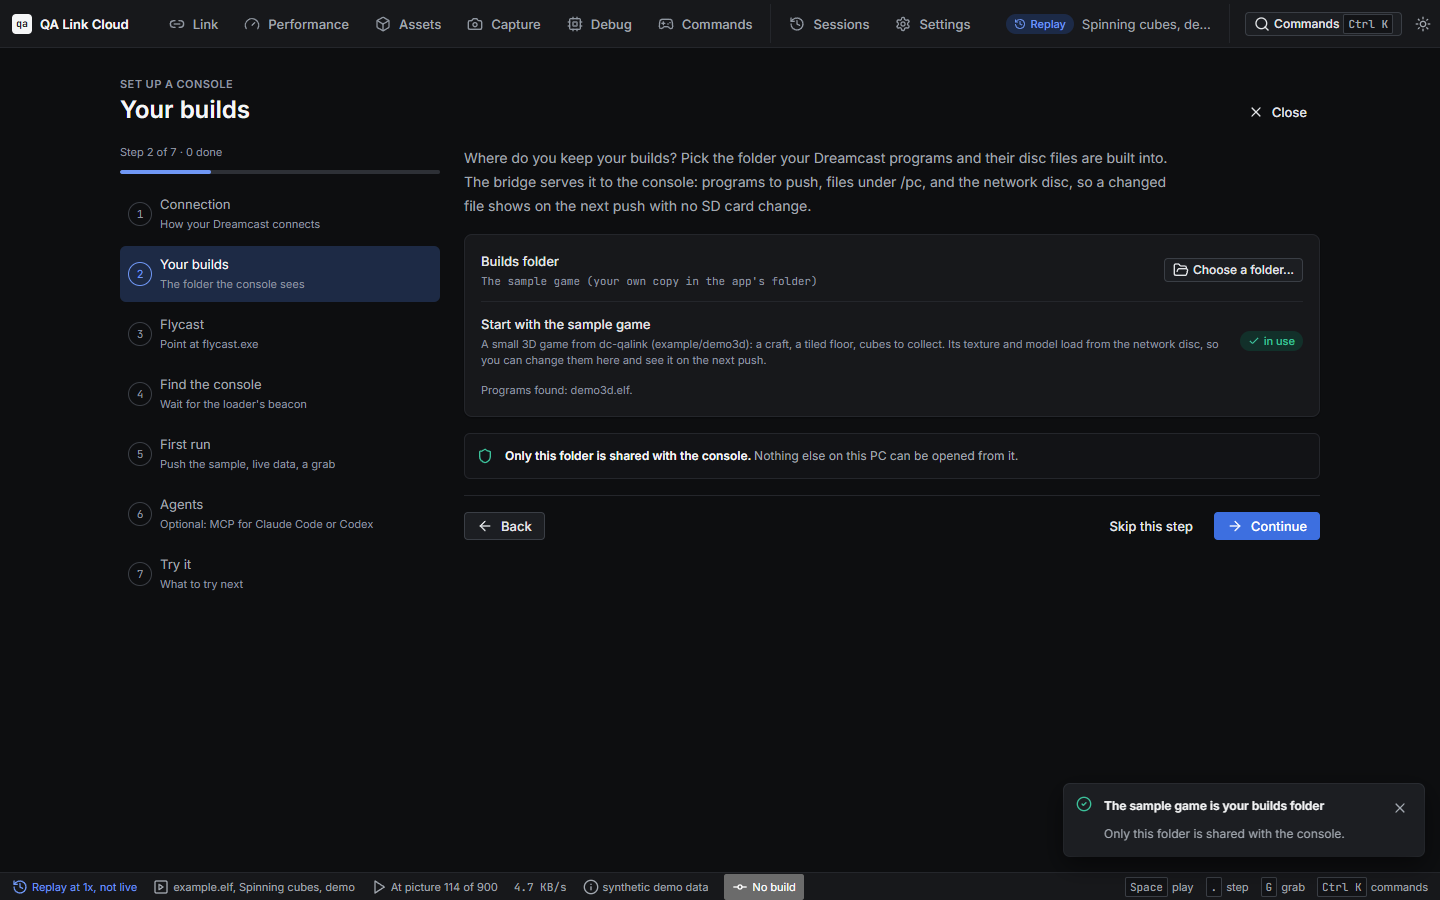
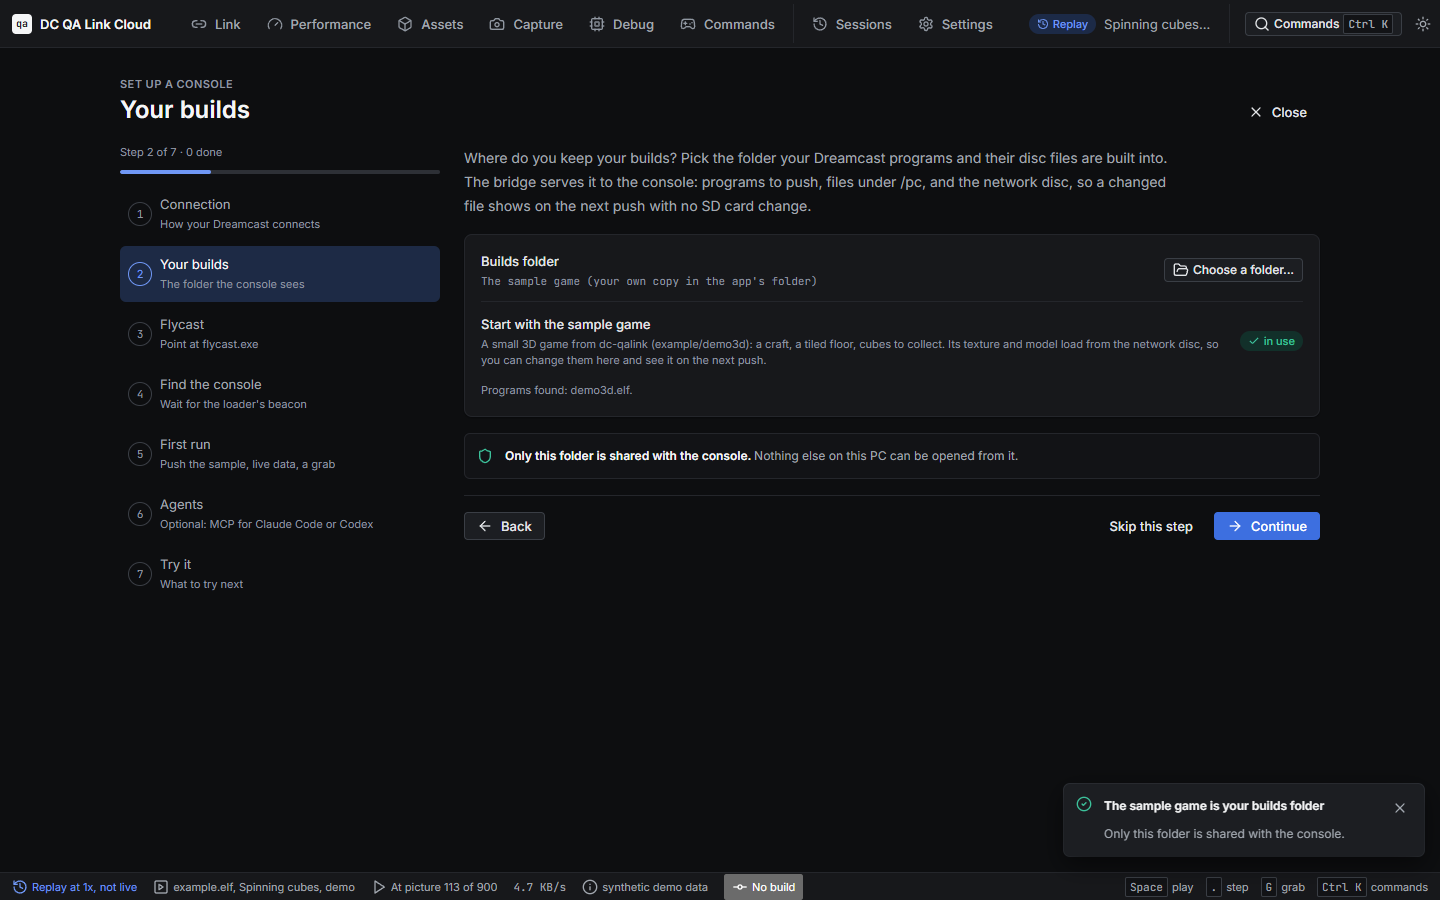
Rename the desktop app to DC QA Link Cloud
Every name a person sees now reads DC QA Link Cloud: the window title, the
executable and zip, the shell and phone brand, the page titles, the setup and
settings texts, the About card, README and docs. The repository name, package
name and internal ids are unchanged.

- About gains the line "Independent tool; not affiliated with Sega."
- The data folder follows the new product name; an existing "QA Link Cloud"
  folder is moved to it once, so settings carry over (kept in place if the
  move fails).
- onboarding-flow waits for the first setup page instead of a fixed sleep.
- README onboarding screenshots retaken with the new name (Flycast).

diff --git a/src/pages/settings.ts b/src/pages/settings.ts
@@ -14,11 +14,11 @@ import type { Page } from './page';
 export type RemoteState = 'off' | 'connecting' | 'on' | 'refused';
 export const remote = { state: (new URLSearchParams(location.search).get('remote') as RemoteState) || 'off', reason: '', v: 0 };
 if (!['off', 'connecting', 'on', 'refused'].includes(remote.state)) remote.state = 'off';
-if (remote.state === 'refused') remote.reason = 'No QA Link Cloud account is set up on this PC yet (milestone L3b).';
+if (remote.state === 'refused') remote.reason = 'No DC QA Link Cloud account is set up on this PC yet (milestone L3b).';
 export function setRemote(on: boolean): void {
   if (!on) { remote.state = 'off'; remote.reason = ''; remote.v++; return; }
   remote.state = 'connecting'; remote.reason = ''; remote.v++;
-  setTimeout(() => { if (remote.state !== 'connecting') return; remote.state = 'refused'; remote.reason = 'No QA Link Cloud account is set up on this PC yet (milestone L3b). Nothing left this PC.'; remote.v++; }, 1600);
+  setTimeout(() => { if (remote.state !== 'connecting') return; remote.state = 'refused'; remote.reason = 'No DC QA Link Cloud account is set up on this PC yet (milestone L3b). Nothing left this PC.'; remote.v++; }, 1600);
 }
 
 export function mcpSnippets(info: AppInfo | null): { claude: string; codex: string } {
@@ -63,7 +63,7 @@ export class SettingsPage implements Page {
   frame(): void {
     void this.loadDevices();
     const k = `${this.v}|${remote.v}|${this.app.themeV}|${this.app.source.state}`; if (k === this.built) return; this.built = k;
-    const head = h('div', { class: 'page-head' }, h('div', null, h('div', { class: 'eyebrow' }, 'QA Link Cloud'), h('h1', null, 'Settings'), h('p', null, desktop() ? 'Saved in the app\'s own folder on this PC.' : 'Saved in this browser. The desktop app adds programs, files and this PC\'s network.')),
+    const head = h('div', { class: 'page-head' }, h('div', null, h('div', { class: 'eyebrow' }, 'DC QA Link Cloud'), h('h1', null, 'Settings'), h('p', null, desktop() ? 'Saved in the app\'s own folder on this PC.' : 'Saved in this browser. The desktop app adds programs, files and this PC\'s network.')),
       h('div', { class: 'actions' }, btn('Set up a console', () => this.app.cmds.run('setup.open'), { icon: 'sparkles', primary: true })));
     const col = (...c: HTMLElement[]) => h('div', { class: 'col' }, ...c);
     this.el.replaceChildren(head, h('div', { class: 'grid-2' }, col(this.buildsCard(), this.devicesCard(), this.programsCard(), this.networkCard()), col(this.remoteCard(), this.appearanceCard(), this.aboutCard())), this.agentsCard());
@@ -105,15 +105,15 @@ export class SettingsPage implements Page {
     const sw = switchEl(s === 'on' || s === 'connecting', 'Remote link', (v) => setRemote(v), { busy: s === 'connecting', refused: s === 'refused' });
     const say: Record<RemoteState, string> = {
       off: 'Nothing leaves this PC. The console, the bridge and this app work on the local network only.',
-      connecting: 'Opening one outgoing connection to QA Link Cloud. No port is opened on this network.',
-      on: 'Linked to QA Link Cloud through one outgoing connection. A browser elsewhere and cloud agents with a token can reach this console. Every command is logged with who sent it.',
-      refused: remote.reason || 'QA Link Cloud refused the connection.',
+      connecting: 'Opening one outgoing connection to DC QA Link Cloud. No port is opened on this network.',
+      on: 'Linked to DC QA Link Cloud through one outgoing connection. A browser elsewhere and cloud agents with a token can reach this console. Every command is logged with who sent it.',
+      refused: remote.reason || 'DC QA Link Cloud refused the connection.',
     };
     const states = h('div', { class: 'remote-states' }, ...(['off', 'connecting', 'on', 'refused'] as RemoteState[]).map((x) => h('div', { class: `remote-state${x === s ? ' is-current' : ''}`, html: `<span class="pill${x === 'on' ? ' ok' : x === 'connecting' ? ' warn' : x === 'refused' ? ' err' : ''}">${x === 'off' ? 'Off' : x === 'on' ? 'On' : x === 'connecting' ? 'Connecting' : 'Refused'}</span>` },
       x === 'off' ? 'Local only' : x === 'connecting' ? 'Dialling out' : x === 'on' ? 'Reachable with sign-in' : 'Not set up, or signed out')));
     return h('section', { class: 'card' }, h('div', { class: 'card-head', html: iconSvg('globe') }, h('h2', null, 'Remote link'), h('span', { class: 'meta', html: pill })),
       h('div', { class: 'card-body remote' },
-        h('div', { class: 'remote-head' }, sw, h('div', null, h('div', { class: 't' }, 'Reach this console from elsewhere'), h('div', { class: 'faint', style: 'font-size:var(--fs-xs)' }, 'QA Link Cloud on Cloudflare: sign-in on every page and call'))),
+        h('div', { class: 'remote-head' }, sw, h('div', null, h('div', { class: 't' }, 'Reach this console from elsewhere'), h('div', { class: 'faint', style: 'font-size:var(--fs-xs)' }, 'DC QA Link Cloud on Cloudflare: sign-in on every page and call'))),
         h('div', { class: `callout${s === 'refused' ? ' err' : s === 'on' ? ' ok' : s === 'connecting' ? ' warn' : ''}`, html: iconSvg(s === 'refused' ? 'circle-x' : s === 'on' ? 'circle-check' : 'info') }, h('p', null, say[s], s === 'on' && new URLSearchParams(location.search).get('remote') === 'on' ? h('b', null, ' Design preview: nothing is connected.') : null)),
         states,
         h('dl', { class: 'kv' }, h('dt', null, 'Address'), h('dd', null, 'not set up (milestone L3b)'), h('dt', null, 'When on, leaves this PC'), h('dd', null, 'live data, grabs and sessions you upload'), h('dt', null, 'Never leaves'), h('dd', null, 'files on disk you did not send'))));
@@ -185,8 +185,9 @@ export class SettingsPage implements Page {
     const i = this.info;
     return h('section', { class: 'card' }, h('div', { class: 'card-head', html: iconSvg('info') }, h('h2', null, 'About')),
       h('div', { class: 'card-body' }, h('dl', { class: 'kv' },
-        h('dt', null, 'App'), h('dd', null, i ? `QA Link Cloud ${i.version}, desktop${i.packaged ? '' : ' (from source)'}` : 'QA Link Cloud, web page'),
+        h('dt', null, 'App'), h('dd', null, i ? `DC QA Link Cloud ${i.version}, desktop${i.packaged ? '' : ' (from source)'}` : 'DC QA Link Cloud, web page'),
         h('dt', null, 'Built on'), h('dd', null, 'dc-qalink 0.2 (in progress)'),
+        h('dt', null, 'Notice'), h('dd', null, 'Independent tool; not affiliated with Sega.'),
         h('dt', null, 'Bridge API'), h('dd', null, BRIDGE_API_VERSION),
         h('dt', null, 'Session format'), h('dd', null, String(SESSION_FORMAT_VERSION)),
         h('dt', null, 'MCP tool list'), h('dd', null, MCP_TOOLS_VERSION),

diff --git a/src/pages/setup.ts b/src/pages/setup.ts
@@ -241,7 +241,7 @@ export class SetupPage implements Page {
           const c = h('button', { class: 'choice', 'aria-pressed': String(on), 'data-kind': k, html: iconSvg(ic, 20) }, h('span', { class: 't' }, t), h('span', { class: 'box', html: on ? iconSvg('check') : '' }), h('span', { class: 'd' }, d));
           c.addEventListener('click', () => this.setKind(k)); return c;
         };
-        return [lead('QA Link Cloud links this PC to a Dreamcast while it runs: push a build, watch its timings live, grab its screen, warp, pause and step. It works offline, on this PC\'s network.'),
+        return [lead('DC QA Link Cloud links this PC to a Dreamcast while it runs: push a build, watch its timings live, grab its screen, warp, pause and step. It works offline, on this PC\'s network.'),
           h('div', { class: 'section-title' }, 'How is your Dreamcast connected?'),
           h('div', { class: 'choice-grid three' },
             choice('bba', 'cable', 'Broadband adapter', 'The fastest: live data every picture, and builds can read their disc from this PC.'),
@@ -272,7 +272,7 @@ export class SetupPage implements Page {
           seg,
           this.s.transport === 'modem' ? call('info', '', h('b', null, 'No network disc. '), MODEM_NO_DISC) : null,
           q ? (this.nets.length ? h('div', { class: 'card' }, h('div', { class: 'card-body flush' }, t)) : h('div', { class: 'faint' }, 'Reading this PC\'s network...')) : h('div', { class: 'callout', html: iconSvg('app-window') }, h('p', null, 'The desktop app lists this PC\'s network and picks the one the console can reach. On the web page, the bridge picks it.')),
-          call('shield', 'warn', h('b', null, 'One Windows question may appear. '), 'When the bridge first listens for the console, Windows can ask whether QA Link Cloud may use networks. Tick ', h('b', null, 'Private networks'), ', leave Public unticked, and choose ', h('b', null, 'Allow'), '. The app changes no firewall settings itself.')];
+          call('shield', 'warn', h('b', null, 'One Windows question may appear. '), 'When the bridge first listens for the console, Windows can ask whether DC QA Link Cloud may use networks. Tick ', h('b', null, 'Private networks'), ', leave Public unticked, and choose ', h('b', null, 'Allow'), '. The app changes no firewall settings itself.')];
       }
       case 'loader': return [
         lead('The loader is a small program the Dreamcast boots from the SD card once. It waits for builds from this PC, runs them, and comes back when they end, so you never swap cards again.'),
@@ -329,7 +329,7 @@ export class SetupPage implements Page {
           h('div', { class: 'card' }, h('div', { class: 'card-body' }, h('div', { class: 'set-row' }, h('div', null, h('div', { class: 'l' }, 'Local MCP'), h('div', { class: 'd' }, 'Tools at the "control" level: they can read and steer, not push code. Raise it in the command line on purpose.')),
             h('div', { class: 'ctl' }, q ? switchEl(this.mcpOn, 'Local MCP', async (v) => { await q.setSetting('mcpLocal', v); this.mcpOn = v; this.bump(); }) : deskOnly())))),
           snippet(A, 'Claude Code: run once in a terminal', sn.claude), snippet(A, 'Codex: add to ~/.codex/config.toml', sn.codex),
-          h('div', { class: 'faint', style: 'font-size:var(--fs-xs)' }, 'The remote link stays off: when on, it lets a browser elsewhere and cloud agents reach this console through QA Link Cloud. Settings has the switch.')];
+          h('div', { class: 'faint', style: 'font-size:var(--fs-xs)' }, 'The remote link stays off: when on, it lets a browser elsewhere and cloud agents reach this console through DC QA Link Cloud. Settings has the switch.')];
       }
       case 'done': {
         const items: [string, string][] = [

diff --git a/src/ui/phone.ts b/src/ui/phone.ts
@@ -25,7 +25,7 @@ export class Phone {
     const menu = h('button', { class: 'icon-btn', 'aria-label': 'Commands', title: 'Commands', html: iconSvg('menu') });
     menu.addEventListener('click', () => app.palette());
     this.el = h('div', { class: 'mon' },
-      h('header', { class: 'mon-top' }, h('span', { class: 'brand' }, h('span', { class: 'brand-mark' }, 'qa'), 'QA Link Cloud'), h('span', { class: 'grow' }), this.pill, menu),
+      h('header', { class: 'mon-top' }, h('span', { class: 'brand' }, h('span', { class: 'brand-mark' }, 'qa'), 'DC QA Link Cloud'), h('span', { class: 'grow' }), this.pill, menu),
       h('div', { class: 'mon-body' },
         h('section', { class: 'card' }, h('div', { class: 'card-head' }, this.devName, h('span', { class: 'grow' }), this.devMeta), h('div', { class: 'mon-screen' }, this.screen)),
         h('section', { class: 'card' }, h('div', { class: 'card-head' }, this.chartTitle, h('span', { class: 'grow' }), this.overPill), h('div', { class: 'mon-chart' }, this.chart), this.kpis),

diff --git a/src/ui/app.ts b/src/ui/app.ts
@@ -201,7 +201,7 @@ export class App implements LayoutHost {
     const themeBtn = h('button', { class: 'icon-btn', title: `Light or dark theme (T)`, 'aria-label': 'Switch theme', html: iconSvg(this.theme === 'dark' ? 'sun' : 'moon') });
     themeBtn.addEventListener('click', () => this.cmds.run('theme.toggle'));
     this.top.replaceChildren(
-      h('span', { class: 'brand', title: 'QA Link Cloud, built on dc-qalink 0.2' }, h('span', { class: 'brand-mark' }, 'qa'), h('span', { class: 'brand-name' }, 'QA Link Cloud')),
+      h('span', { class: 'brand', title: 'DC QA Link Cloud, built on dc-qalink 0.2' }, h('span', { class: 'brand-mark' }, 'qa'), h('span', { class: 'brand-name' }, 'DC QA Link Cloud')),
       tabs, h('span', { class: 'grow' }),
       h('span', { class: 'top-link', html: pill }, what ? h('span', { class: 'muted ellipsis', title: what }, what) : null),
       h('span', { class: 'sep-v' }), cmdBtn, themeBtn);

diff --git a/src/editors/home.ts b/src/editors/home.ts
@@ -7,7 +7,7 @@ class Home implements Editor {
   el = h('div'); bodyClass = 'scroll';
   constructor(app: App) {
     this.el.append(empty('cable', 'No console linked',
-      'Start Flycast with the loader, or power the Dreamcast with the loader on its card. The bridge on this PC finds it on the local network or through the DreamPi, and QA Link Cloud links to the bridge.',
+      'Start Flycast with the loader, or power the Dreamcast with the loader on its card. The bridge on this PC finds it on the local network or through the DreamPi, and DC QA Link Cloud links to the bridge.',
       [btn('Connect to the bridge on this PC', () => app.cmds.run('link.local'), { primary: true, icon: 'plug' }),
         btn('Enter an address', () => { app.palette(); }, { icon: 'search', kbd: 'Ctrl K' }),
         btn('Open the demo recording', () => app.cmds.run('session.demo'), { icon: 'history' })]));

diff --git a/index.html b/index.html
@@ -3,12 +3,12 @@
 <head>
 <meta charset="utf-8">
 <meta name="viewport" content="width=device-width, initial-scale=1">
-<meta name="description" content="QA Link Cloud: a developer workstation for a Dreamcast linked to this PC, built on dc-qalink 0.2.">
-<title>QA Link Cloud</title>
+<meta name="description" content="DC QA Link Cloud: a developer workstation for a Dreamcast linked to this PC, built on dc-qalink 0.2.">
+<title>DC QA Link Cloud</title>
 </head>
 <body>
 <div id="app"></div>
-<noscript>QA Link Cloud needs JavaScript.</noscript>
+<noscript>DC QA Link Cloud needs JavaScript.</noscript>
 <script type="module" src="/src/main.ts"></script>
 </body>
 </html>

diff --git a/src/data/mcp-tools.ts b/src/data/mcp-tools.ts
@@ -1,5 +1,5 @@
 // The MCP tool list: the console as tools for any agent (plan 2d). One list, versioned with the bridge API; the
-// bridge (Python, dc-qalink) serves exactly this list over stdio and a local HTTP port, QA Link Cloud serves it remotely
+// bridge (Python, dc-qalink) serves exactly this list over stdio and a local HTTP port, DC QA Link Cloud serves it remotely
 // through the job queue, and tools/mock-mcp.mjs serves it over the mock bridge as the reference implementation.
 // This file is plain data plus one small argument checker, written in erasable TypeScript so Node can load it as is.
 //

diff --git a/src/styles/components.css b/src/styles/components.css
@@ -1,4 +1,4 @@
-/* QA Link Cloud components, carried from the design lane (ql-design app.css, 21edad1). Tokens only (tokens.css). Direction A removed. */
+/* DC QA Link Cloud components, carried from the design lane (ql-design app.css, 21edad1). Tokens only (tokens.css). Direction A removed. */
 *, *::before, *::after { box-sizing: border-box; }
 html, body { margin: 0; height: 100%; }
 body {

diff --git a/src/styles/shell.css b/src/styles/shell.css
@@ -1,4 +1,4 @@
-/* QA Link Cloud shell: workspace frame, split areas, menus, palette, timeline, editors. Tokens only. */
+/* DC QA Link Cloud shell: workspace frame, split areas, menus, palette, timeline, editors. Tokens only. */
 button { font: inherit; }
 [hidden] { display: none !important; }
 .area-head .ed { white-space: nowrap; flex: none; max-width: 60%; }

diff --git a/speed.html b/speed.html
@@ -3,7 +3,7 @@
 <head>
 <meta charset="utf-8">
 <meta name="viewport" content="width=device-width, initial-scale=1">
-<title>QA Link Cloud speed test</title>
+<title>DC QA Link Cloud speed test</title>
 </head>
 <body>
 <div id="app"></div>

diff --git a/tools/make-sheet.py b/tools/make-sheet.py
@@ -23,7 +23,7 @@ rows = [thumbs[i:i + 2] for i in range(0, len(thumbs), 2)]
 H = PAD + 34 + 26 + sum(max(t.height for t, _ in r) + 30 + GAP for r in rows) + PAD
 sheet = Image.new('RGB', (W, H), BG); d = ImageDraw.Draw(sheet)
 d.text((PAD, PAD), title, font=ft, fill=(245, 246, 247))
-d.text((PAD, PAD + 34), 'QA Link Cloud (ql-app), dark, 1440x900. Synthetic demo data and the mock bridge; no console. Finished, unaudited.', font=fs, fill=MUTED)
+d.text((PAD, PAD + 34), 'DC QA Link Cloud (ql-app), dark, 1440x900. Synthetic demo data and the mock bridge; no console. Finished, unaudited.', font=fs, fill=MUTED)
 y = PAD + 34 + 26 + 8
 for r in rows:
     x = PAD

diff --git a/README.md b/README.md
@@ -1,4 +1,4 @@
-# QA Link Cloud
+# DC QA Link Cloud
 
 The desktop companion to [dc-qalink](https://github.com/lamb2k/dc-qalink): link a Dreamcast (or Flycast) to your PC
 and see live timings, grab the screen, push and run builds, send commands and keep sessions. Agents such as Claude
@@ -30,9 +30,9 @@ Code or Codex can drive the console through MCP.
 ## Quick start
 
 **From the release zip**
-1. Download `QA-Link-Cloud-0.1.0-preview-win-x64.zip` from
+1. Download `DC-QA-Link-Cloud-0.1.0-preview-win-x64.zip` from
    [Releases](https://github.com/lamb2k/dc-qalink-cloud/releases) and check it against `SHA256SUMS`.
-2. Unzip anywhere and run `QA Link Cloud.exe`. It is portable and unsigned, so Windows SmartScreen may ask once.
+2. Unzip anywhere and run `DC QA Link Cloud.exe`. It is portable and unsigned, so Windows SmartScreen may ask once.
 3. The first run opens **Set up a console**. Skip it to explore the built-in demo session.
 
 The zip carries dc-qalink's bridge (a pinned commit of `v0.2`, MIT) and its own Python in `resources\bridge`.
@@ -109,17 +109,17 @@ The desktop app, dark theme, 1440x900, captured offscreen by the app's own test 
 
 ## MCP for agents
 
-Start the bridge first (Settings > Bridge and Flycast). Then, with the zip unzipped to `C:\Tools\QA Link Cloud`:
+Start the bridge first (Settings > Bridge and Flycast). Then, with the zip unzipped to `C:\Tools\DC QA Link Cloud`:
 
 Claude Code:
 ```
-claude mcp add qalink -- python -I "C:\Tools\QA Link Cloud\resources\bridge\pc\qalink_bridge.py" --mcp stdio --bridge http://127.0.0.1:52080 --mcp-level control
+claude mcp add qalink -- python -I "C:\Tools\DC QA Link Cloud\resources\bridge\pc\qalink_bridge.py" --mcp stdio --bridge http://127.0.0.1:52080 --mcp-level control
 ```
 Codex (`~/.codex/config.toml`):
 ```
 [mcp_servers.qalink]
 command = "python"
-args = ["-I", "C:\\Tools\\QA Link Cloud\\resources\\bridge\\pc\\qalink_bridge.py", "--mcp", "stdio", "--bridge", "http://127.0.0.1:52080", "--mcp-level", "control"]
+args = ["-I", "C:\\Tools\\DC QA Link Cloud\\resources\\bridge\\pc\\qalink_bridge.py", "--mcp", "stdio", "--bridge", "http://127.0.0.1:52080", "--mcp-level", "control"]
 ```
 The app shows these lines with your own paths in Settings > Agents. Level `control` can read and steer but not push
 code; raise it to `run` on purpose. Tool list: [docs/MCP_TOOLS.md](docs/MCP_TOOLS.md).
